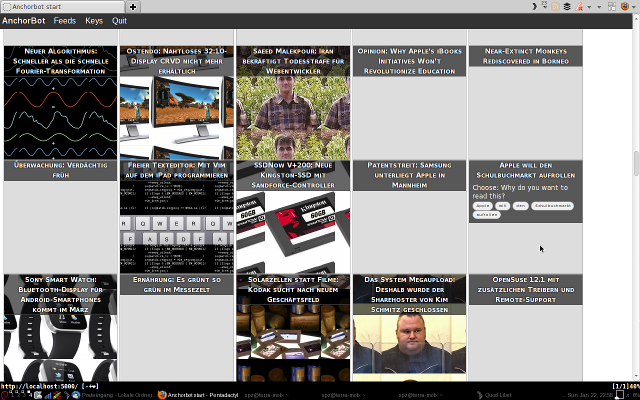
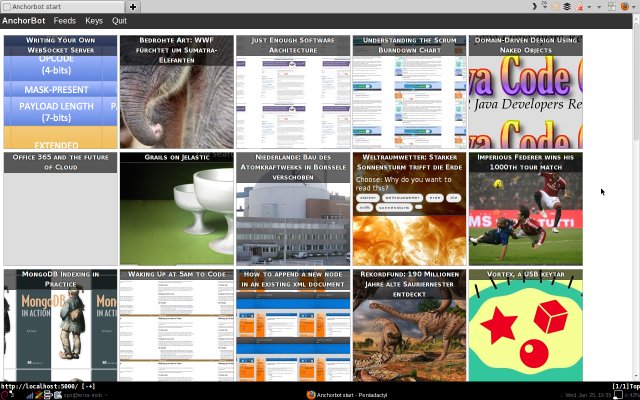
FIX: crawling for images on issue page

diff --git a/anchorbot/static/default.css b/anchorbot/static/default.css
@@ -88,17 +88,6 @@ table {
 #content {
   padding: 30pt 5pt 5pt 5pt;
 }
-#content h1,
-#content h2,
-#content h3,
-#content h4 {
-  padding-top: 20pt;
-  padding-bottom: 5pt;
-}
-#content p {
-  padding-top: 5pt;
-  padding-bottom: 5pt;
-}
 
 .issue1 {
   width: 100%;
@@ -107,6 +96,18 @@ table {
   padding-top: 30pt;
   padding-bottom: 30pt;
 }
+.issue1 .issue_content h1,
+.issue1 .issue_content h2,
+.issue1 .issue_content h3,
+.issue1 .issue_content h4 {
+  padding-top: 20pt;
+  padding-bottom: 5pt;
+}
+.issue1 .issue_content p {
+  padding-top: 5pt;
+  padding-bottom: 5pt;
+}
+
 .issue1 .small {
   clear: both;
   width: 100%;

diff --git a/anchorbot/util/crawler.py b/anchorbot/util/crawler.py
@@ -20,7 +20,6 @@ Generic crawler.
 Follows redirections and delivers some useful functions for remote images.
 """
 re_cln = re.compile('(<img[^>]+>|[\n\r]|<script[^>]*>\s*</script>|<iframe.*</iframe>|</*html>|</*head>|</*div[^>]*>| [ ]+)', re.I)
-re_img = re.compile('(?<=src=").*(?=")', re.I)
 
 class Crawler(object):
     htmlparser = HTMLParser()
@@ -176,24 +175,20 @@ class Crawler(object):
         url = self.get_link(entry)
         print "enriching", url
         # get more text and images
+        cached_url = self.cache[url]
         try:
-            cached_url = self.cache[url]
-        except:
-            cached_url = ""
-        if cached_url:
+            html = entry["content"][0].value
+            images, content = self.crawlHTML(html, cached_url, baseurl=url)
+        except KeyError:
             try:
-                html = entry["content"][0].value
+                html = entry["summary_detail"].value
                 images, content = self.crawlHTML(html, cached_url, baseurl=url)
             except KeyError:
                 try:
-                    html = entry["summary_detail"].value
+                    html = entry["summary"].value
                     images, content = self.crawlHTML(html, cached_url, baseurl=url)
                 except KeyError:
-                    try:
-                        html = entry["summary"].value
-                        images, content = self.crawlHTML(html, cached_url, baseurl=url)
-                    except KeyError:
-                        content = entry["title"]
+                    content = entry["title"]
 
         # get images from entry itself
         for key in ("links", "enclosures"):
@@ -204,6 +199,12 @@ class Crawler(object):
                 pass
 
         #TODO get even more images from links in entry
+        html = open(self.cache[url],'r').read()
+        new_images, more_content = self.crawlHTML(html, url, baseurl=url)
+        images |= new_images
+        #content = len(more_content)>len(content) and more_content or content
+
+        #print content[:100]
 
         # filter out some images
         # give the images to the entry finally
@@ -211,6 +212,7 @@ class Crawler(object):
         if not image:
             image = self.biggest_image(images)
         #TODO resize image to a prefered size here!
+        print image
 
         try:
             date = mktime(entry.updated_parsed)

diff --git a/anchorbot/util/anchorbot.py b/anchorbot/util/anchorbot.py
@@ -146,16 +146,17 @@ class Anchorbot(object):
             title = source.title = feed["feed"]["title"]
         except KeyError:
             title = source.title = feedurl
+        old_quickhash = source.quickhash
         new_quickhash = self.get_quickhash(source.link)
-        if source.quickhash != new_quickhash:
-            source.quickhash = self.get_quickhash(source.link)
+        if old_quickhash != new_quickhash:
+            source.quickhash = new_quickhash
             s.commit()
             s.close()
             for entry in feed["entries"]:
                 self.add_entry(entry, source)
             self.log("Done %i of %i: %s" % (len(self.feeds),len(self.config.get_abos()),feedurl,))
         else:
-            self.log("Nothing new in %i of %i: %s" % (len(self.feeds),len(self.config.get_abos()),feedurl,))
+            self.log("Nothing new in %i of %i: %s (%s == %s)" % (len(self.feeds),len(self.config.get_abos()),feedurl,old_quickhash,new_quickhash))
             s.close()
 
         #self.feeds[feedurl] = feedurl
@@ -166,6 +167,8 @@ class Anchorbot(object):
         """Fast value for comparisons without hashing"""
         while True:
             try:
+                #f = self.feeds[feedurl] = feedparser.parse(self.cache[feedurl])
+                #h = f["headers"]["date"]
                 h = hash(open(self.cache[feedurl]).read())
                 return h
             except:

diff --git a/anchorbot/util/datamodel.py b/anchorbot/util/datamodel.py
@@ -96,7 +96,7 @@ class Article( Base ):
 
     def set_keywords( self, keywords ):
         for kw in keywords:
-            self.keywords.append( kw.lower() )
+            self.keywords.append( kw )
 
     def finished( self, date ):
         """Has to be called when article has been read to update statistics."""
@@ -122,9 +122,9 @@ class Keyword( Base ):
 
     def __init__( self, word, clickcount=0 ):
         if isinstance(word, str):
-            self.word = word.decode( "utf-8" )
+            self.word = word.decode( "utf-8" ).lower()
         else:
-            self.word = word
+            self.word = word.lower()
         self.clickcount = clickcount
 
     def __repr__( self ):
